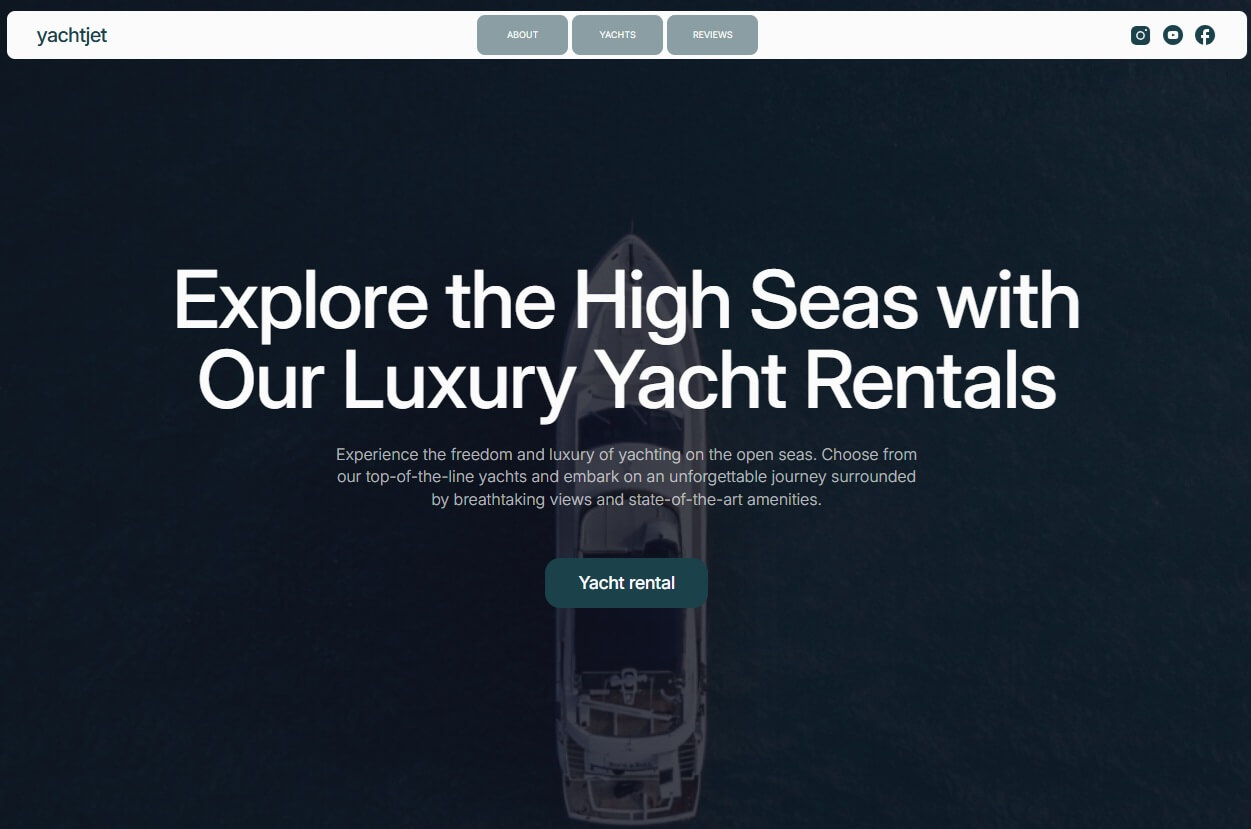
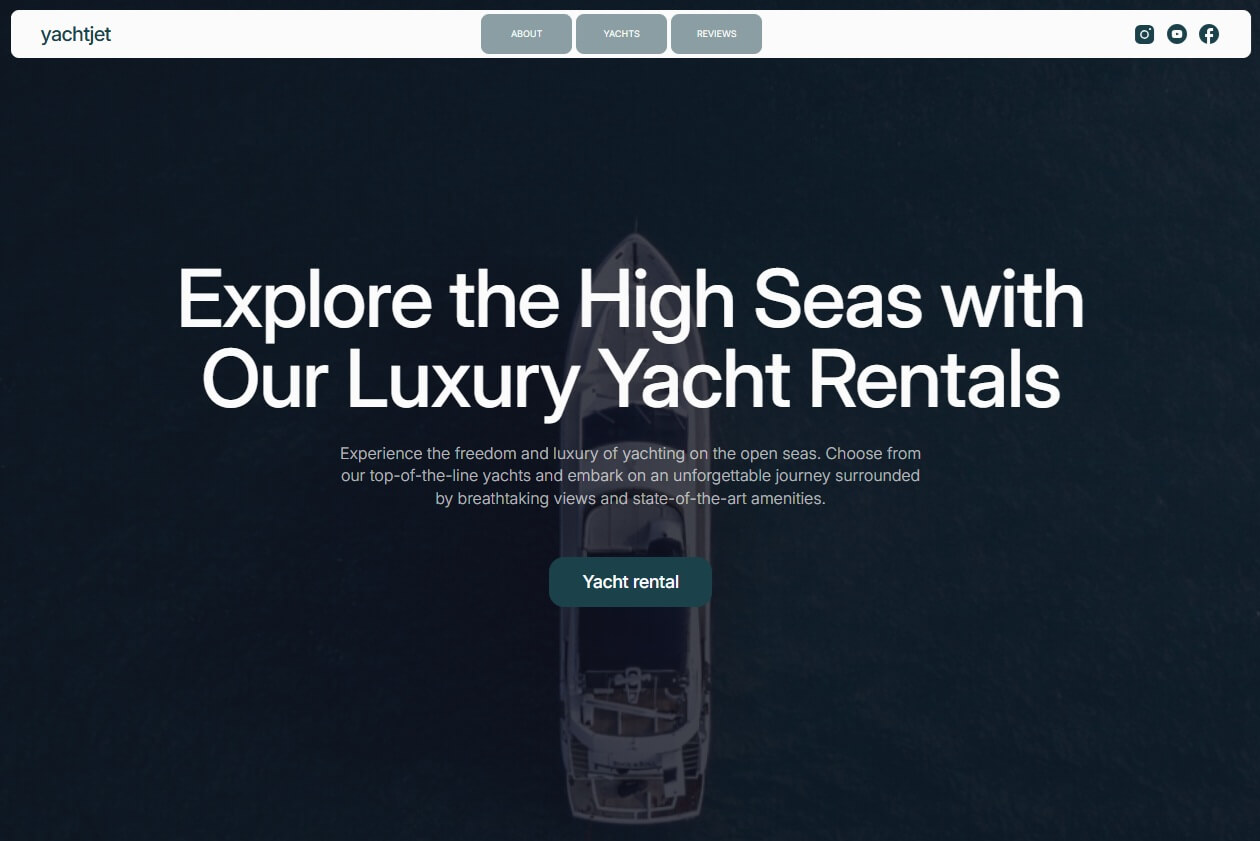
ProjectsPage-finish

diff --git a/src/pages/ProjectsPage/ProjectsPage.jsx b/src/pages/ProjectsPage/ProjectsPage.jsx
@@ -1,3 +1,73 @@
+// import projects from "../../data/projects";
+
+// const ProjectsPage = () => {
+//   return (
+//     <section id="projects" className="bg-section">
+//       <div className="container py-20">
+//         <h2 className="text-4xl font-semibold title-shadow text-center mb-8">
+//           My Projects
+//         </h2>
+
+//         <div className="carousel w-full">
+//           {projects.map((project, index) => {
+//             const prevSlide = index === 0 ? projects.length : index;
+
+//             const nextSlide = index === projects.length - 1 ? 1 : index + 2;
+
+//             return (
+//               <div
+//                 key={project.id}
+//                 id={`slide${index + 1}`}
+//                 className="carousel-item relative w-full p-4"
+//               >
+//                 <div className="bg-[#112240] p-5 rounded-[15px] shadow-[0_0_20px_rgba(35,75,134,0.4)] grid">
+//                   <figure className="w-full h-full overflow-hidden">
+//                     <img
+//                       src={project.img}
+//                       alt={project.title}
+//                       className="w-full h-full object-cover rounded-xl"
+//                     />
+//                   </figure>
+
+//                   <div className="card-body items-center text-center flex justify-between w-full">
+//                     <div>
+//                       <h4 className="card-title">{project.title}</h4>
+
+//                       <p className="mb-4 leading-snug">{project.description}</p>
+//                     </div>
+
+//                     <div className="flex justify-between w-full">
+//                       <a href={project.link} target="_blank" rel="noreferrer">
+//                         <button className="btn py-2 px-3">GitHub Code</button>
+//                       </a>
+
+//                       <a href={project.demo} target="_blank" rel="noreferrer">
+//                         <button className="btn py-2 px-3">Live Preview</button>
+//                       </a>
+//                     </div>
+//                   </div>
+//                 </div>
+
+//                 <div className="hidden md:flex absolute left-5 right-5 top-1/2 -translate-y-1/2 justify-between">
+//                   <a href={`#slide${prevSlide}`} className="btn-circle">
+//                     ❮
+//                   </a>
+
+//                   <a href={`#slide${nextSlide}`} className="btn-circle">
+//                     ❯
+//                   </a>
+//                 </div>
+//               </div>
+//             );
+//           })}
+//         </div>
+//       </div>
+//     </section>
+//   );
+// };
+
+// export default ProjectsPage;
+
 import projects from "../../data/projects";
 
 const ProjectsPage = () => {
@@ -20,23 +90,26 @@ const ProjectsPage = () => {
                 id={`slide${index + 1}`}
                 className="carousel-item relative w-full p-4"
               >
-                <div className="bg-[#112240] p-5 rounded-[15px] shadow-[0_0_20px_rgba(35,75,134,0.4)] grid">
-                  <figure className="w-full h-full overflow-hidden">
+                <div className="bg-[#112240] p-5 rounded-[15px] shadow-[0_0_20px_rgba(35,75,134,0.4)] flex flex-col h-full">
+                  <figure className="w-full aspect-[16/9] overflow-hidden rounded-xl mb-4">
                     <img
                       src={project.img}
                       alt={project.title}
-                      className="w-full h-full object-cover rounded-xl"
+                      className="w-full h-full object-cover"
                     />
                   </figure>
 
-                  <div className="card-body items-center text-center flex justify-between w-full">
-                    <div>
-                      <h4 className="card-title">{project.title}</h4>
-
-                      <p className="mb-4 leading-snug">{project.description}</p>
+                  <div className="flex flex-col flex-1 text-center justify-between">
+                    <div className="mb-4 ">
+                      <h4 className="card-title mb-2 justify-center text-2xl text-[#64ffda]">
+                        {project.title}
+                      </h4>
+                      <p className="text-sm leading-relaxed text-gray-300">
+                        {project.description}
+                      </p>
                     </div>
 
-                    <div className="flex justify-between w-full">
+                    <div className="flex justify-between w-full ">
                       <a href={project.link} target="_blank" rel="noreferrer">
                         <button className="btn py-2 px-3">GitHub Code</button>
                       </a>
